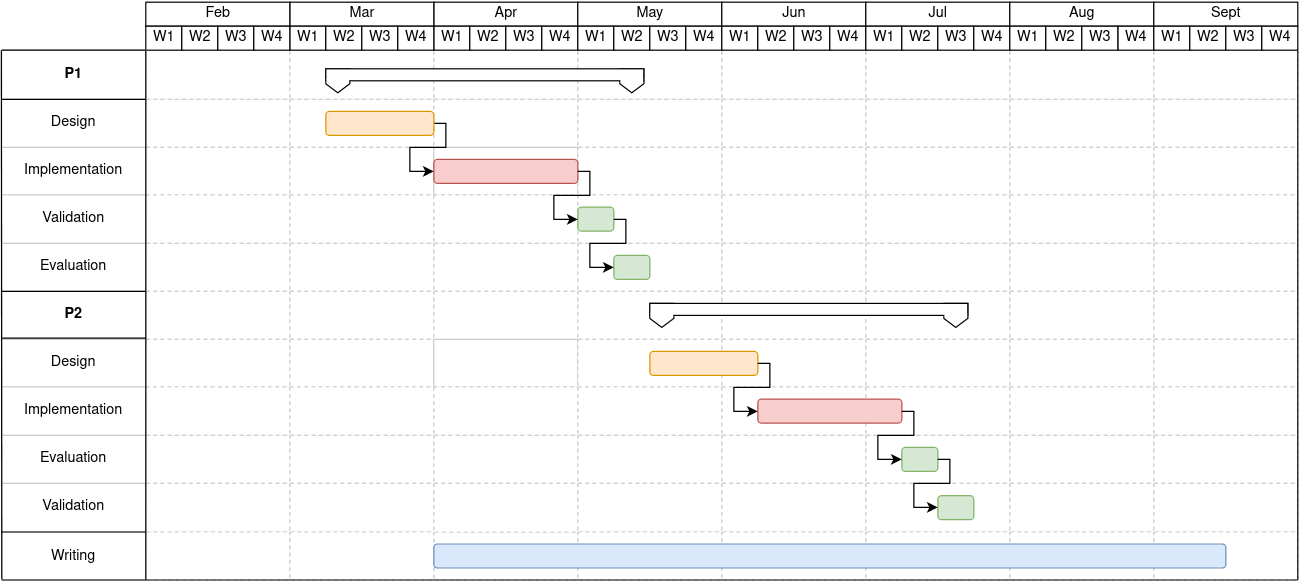
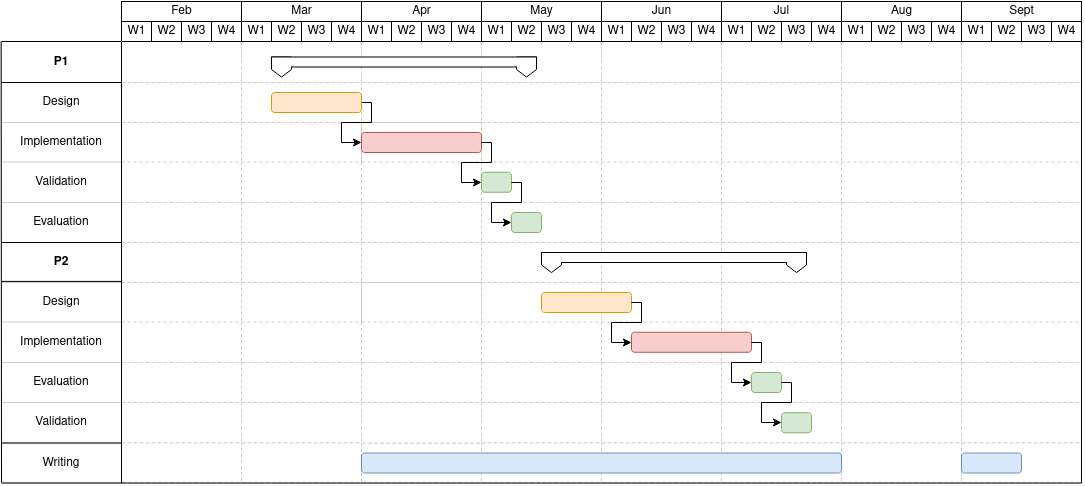
Added system model.

diff --git a/Chapters/chapter3/3-approach-to-elaboration.tex b/Chapters/chapter3/3-approach-to-elaboration.tex
@@ -33,7 +33,7 @@ Finally, professionals must still be able to execute the majority of operations 
 \section{System Model \& Architecture}
 \label{ch3:sec:architecture-and-system-model}
 
-\paragraph{System Model} There exist mechanisms to provide secure and reliable communication channels, (e.g. the \gls{TLS} protocol \autocite{noauthor_undated-kt}) and which are adopted by trusted cloud providers. These provide security guarantees in transit (while data is being transferred from or loaded into servers). They do not, however, protect against an adversary who might have access to the servers where the data is stored. 
+\paragraph{System Model} There exist mechanisms to provide secure and reliable communication channels, (e.g. \gls{TLS} \autocite{noauthor_undated-kt}, \gls{HTTPS} \autocite{noauthor_undated-yf} and \gls{TCP}) and which are adopted by trusted cloud providers. These provide security guarantees in transit (while data is being transferred from or loaded into servers). They do not, however, protect against an adversary who might have access to the servers where the data is stored. 
 
 The latter is the type of adversary which our protocol will target. Therefore, we will assume that all communication channels are \emph{reliable} and \emph{secure}. The system will follow the \emph{client/server} model of \gls{SE} schemes. More specifically, it will be, initially, a \gls{S/S} solution, further extended to \gls{M/M} using a \emph{key sharing} approach. It will include a \emph{data-owner}, \emph{users}, an \emph{untrusted server} and \emph{adversaries}:
 
@@ -44,7 +44,12 @@ The latter is the type of adversary which our protocol will target. Therefore, w
     \item \emph{Adversaries} An adversary is an entity that has access to the untrusted servers or possesses secret keys but whose access to the ontology has been revoked. The adversaries follow the \emph{honest-but-curious} model.
 \end{itemize}
 
-\mytodo{Add figure}
+\begin{figure}[H]
+    \centering
+    \includegraphics[width=0.8\textwidth]{system-model.png}
+    \caption{The System Model.}
+    \label{fig:system-model}
+\end{figure}
 
 \paragraph{System Architecture} At a macro level, the solution will be a distributed software solution, including a \emph{client} and a \emph{server} component. Besides the necessary communication modules, they will include:
 

diff --git a/Chapters/lists-of/acronyms.tex b/Chapters/lists-of/acronyms.tex
@@ -4,10 +4,11 @@
 \newacronym{SLA}{SLA}{Service Level Agreement}
 \newacronym{HTML}{HTML}{HyperText Markup Language}
 \newacronym{HTTP}{HTTP}{Hypertext Transfer Protocol}
+\newacronym{HTTPS}{HTTPS}{Hyper Text Transfer Protocol Secure}
 \newacronym{SQL}{SQL}{Structured Query Language}
 \newacronym{API}{API}{Application Programming Interface}
 \newacronym{TLS}{TLS}{Transport Layer Security}
-\newacronym{CA}{CA}{Certificate Authority}
+\newacronym{TCP}{TCP}{Transmission Control Protocol}
 
 \newacronym{WWW}{WWW}{World Wide Web}
 \newacronym{W3C}{W3C}{World Wide Web Consortium}